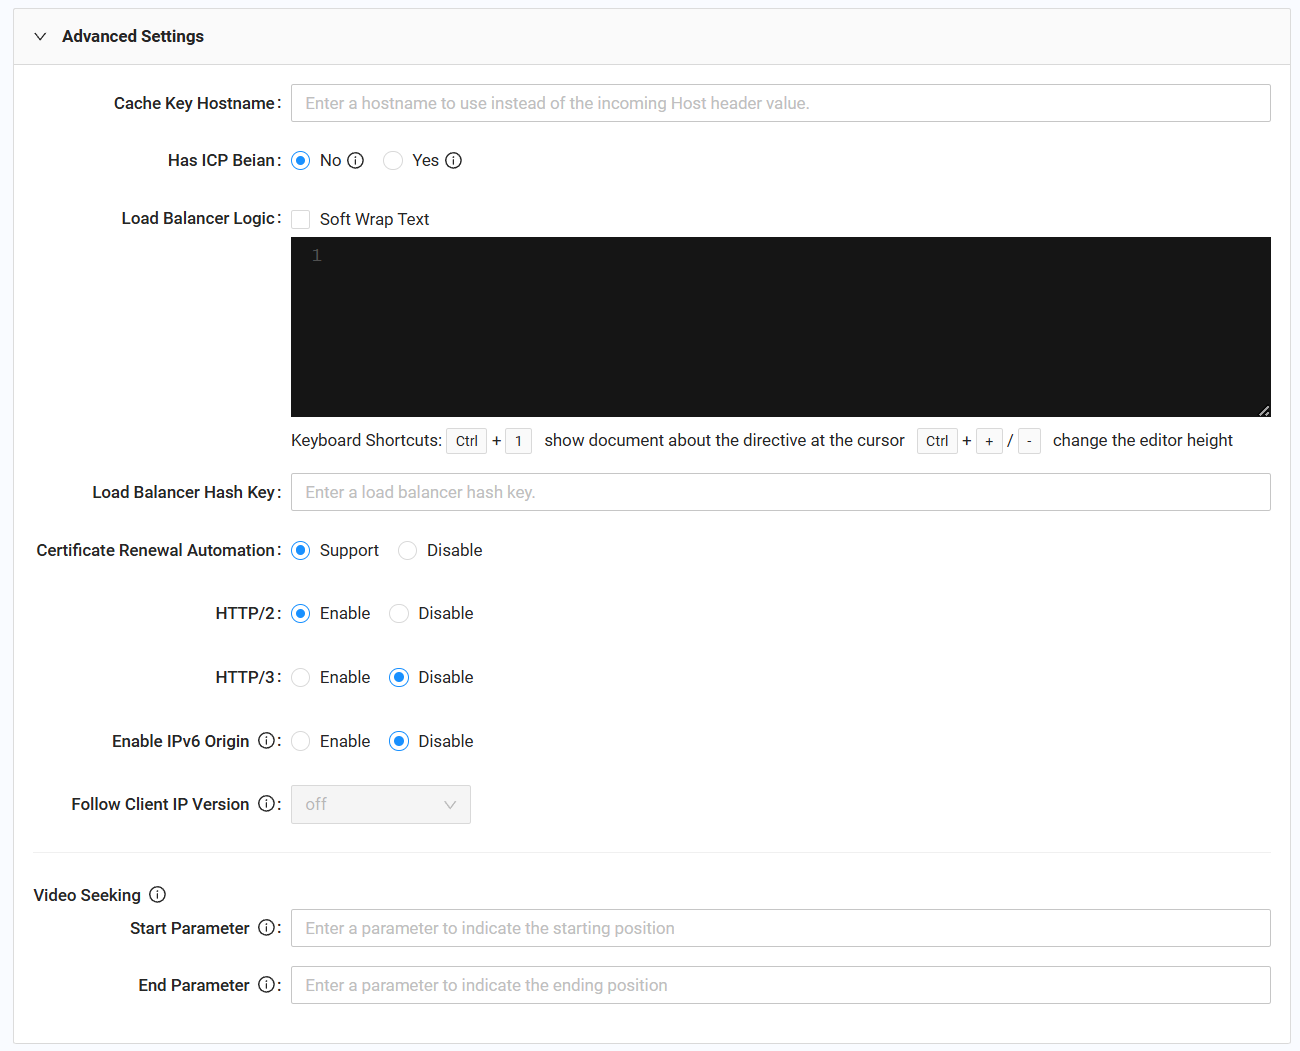
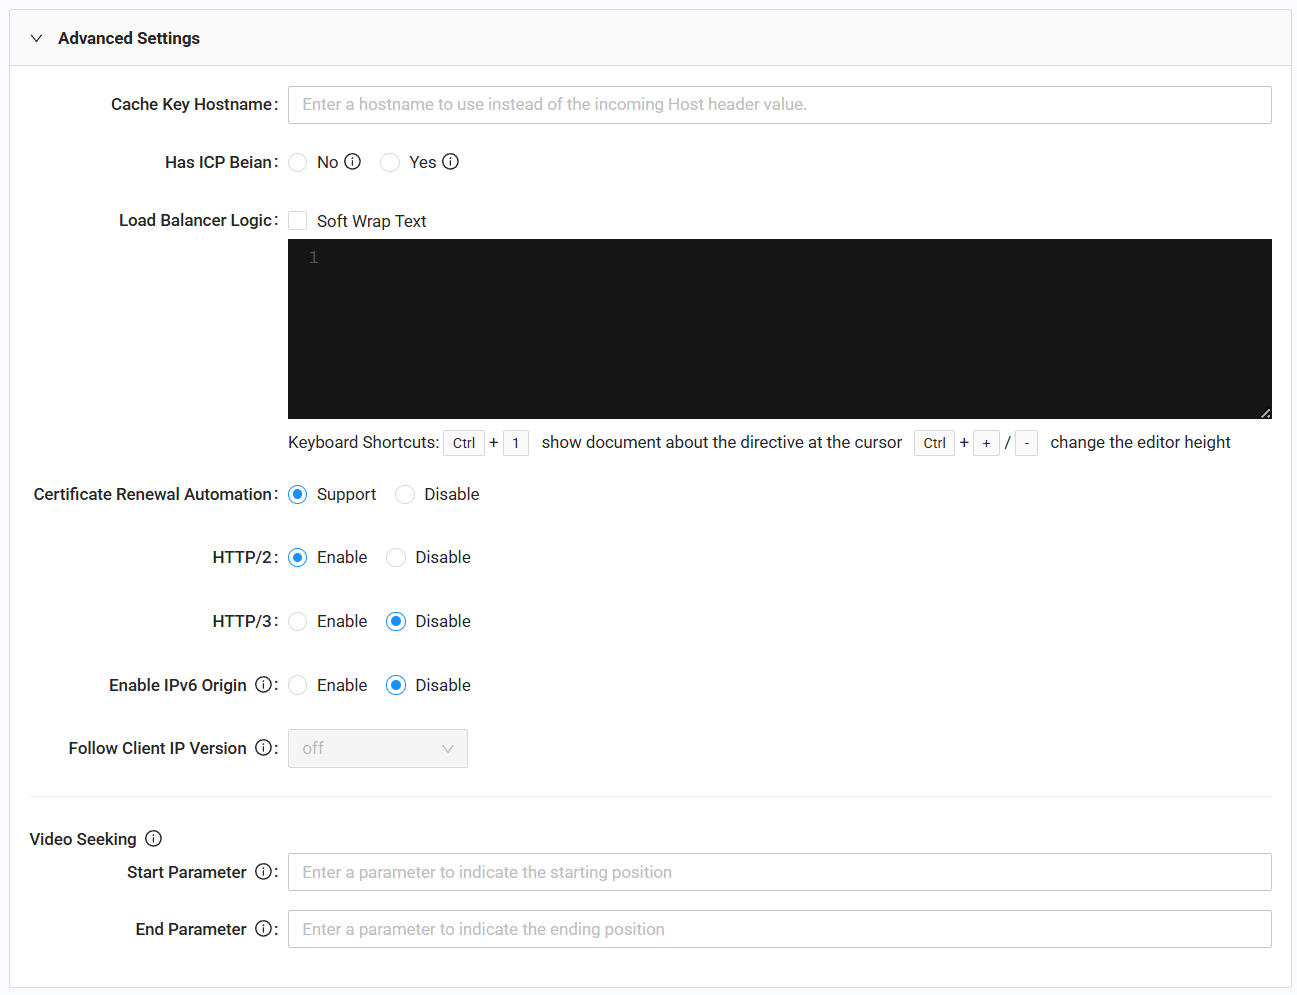
NCP-3779 #comment revised to reflect new UI (NCP-3779) and replacement of variables NCAS-5223

diff --git a/en/docs/edge-logic/built-in-variables.md b/en/docs/edge-logic/built-in-variables.md
@@ -14,6 +14,7 @@ To use the variables properly, it is important to understand the request process
 | <span id="body_bytes_sent"></span><span class="var">$body_bytes_sent</span> |<span class="badge small" title="numerical value">#</span> body bytes sent to client | <span class="badge green">Yes</span> | <span class="badge green">Yes</span> |
 | <span id="bytes_sent"></span><span class="var">$bytes_sent</span> |<span class="badge small" title="numerical value">#</span> total response bytes to client | <span class="badge green">Yes</span> | <span class="badge green">Yes</span> |
 | <span id="cache_misc"></span><span class="var">$cache_misc</span> | a writable variable to add parameters to the cache key | <span class="badge cyan">R/W</span> | <span class="badge yellow">No</span> |
+| <span id="cdn_cache_status"></span><span class="var">$cdn_cache_status</span> | [cache status](https://www.nginx.com/blog/nginx-caching-guide/#Frequently-Asked-Questions-(FAQ)): HIT, MISS, BYPASS, EXPIRED, STALE, UPDATING, REVALIDATED. | <span class="badge green">Yes</span> | <span class="badge green">Yes</span> |
 | <span id="client_country_code"></span><span class="var">$client_country_code</span> | client’s ISO 3166 country code | <span class="badge green">Yes</span> | <span class="badge green">Yes</span> |
 | <span id="client_http_version"></span><span class="var">$client_http_version</span> | client's HTTP version, like "HTTP/1.1" | <span class="badge green">Yes</span> | <span class="badge green">Yes</span> |
 | <span id="client_ip_version"></span><span class="var">$client_ip_version</span> | <span class="badge small" title="numerical value">#</span> client's IP version: 4 for IPv4; 6 for IPv6 | <span class="badge green">Yes</span> | <span class="badge green">Yes</span> |
@@ -25,6 +26,7 @@ To use the variables properly, it is important to understand the request process
 | <span id="content_length"></span><span class="var">$content_length</span> |<span class="badge small" title="numerical value">#</span> request's Content-Length header | <span class="badge green">Yes</span> | <span class="badge green">Yes</span> |
 | <span id="content_type"></span><span class="var">$content_type</span> | request's Content-Type header | <span class="badge green">Yes</span> | <span class="badge green">Yes</span> |
 | <span id="cookie_"></span><span class="var">$cookie_<em>name</em></span> | cookie with the specified name received from the client. The dot character (.) is allowed in this variable name to support cookie names that contain dots. You may need to use curly braces to separate this variable from a trailing literal dot. For example: $cookie_abc.test or ${cookie_abc.test} both refer to the value of the cookie "abc.test", but ${cookie_abc}.test gives you the value of the cookie "abc" followed by the literal ".test". | <span class="badge green">Yes</span> | <span class="badge green">Yes</span> |
+| <span id="cpu_time_ns"></span><span class="var">$cpu_time_ns</span> |<span class="badge small" title="numerical value">#</span> CPU time in nanoseconds（1e-9s) spent on processing the request, before transferring the response body.| <span class="badge green">Yes</span> | <span class="badge green">Yes</span> |
 | <span id="dollar_sign"></span><span class="var">$dollar_sign</span> | a literal dollar sign | <span class="badge green">Yes</span> | <span class="badge green">Yes</span> |
 | <span id="download_time"></span><span class="var">$download_time</span> |<span class="badge small" title="numerical value">#</span> the time in seconds from when CDN Pro receives the client request until CDN Pro sends the response body to the system buffer. The value should be equal to the sum of $request_end_time/$turn_around_time/$transfer_time. Another variable, $download_time_ms, shares the same meaning but is measured in milliseconds. The meaning of $download_time is the same as another variable, $request_time. | <span class="badge green">Yes</span> | <span class="badge green">Yes</span>
 | <span id="error_code"></span><span class="var">$error_code</span> | error about client and origin | <span class="badge green">Yes</span> | <span class="badge green">Yes</span> |
@@ -44,15 +46,15 @@ To use the variables properly, it is important to understand the request process
 | <span id="pid"></span><span class="var">$pid</span> | process ID of the service | <span class="badge green">Yes</span> | <span class="badge green">Yes</span> |
 | <span id="pipe"></span><span class="var">$pipe</span> | "p" if request is pipelined, or "." otherwise. | <span class="badge green">Yes</span> | <span class="badge green">Yes</span> |
 | <span id="property_ver"></span><span class="var">$property_ver</span> |<span class="badge small" title="numerical value">#</span> the property version number | <span class="badge green">Yes</span> | <span class="badge green">Yes</span> |
-| <span id="qtl_cpu_cycle"></span><span class="var">$qtl_cpu_cycle</span> |<span class="badge small" title="numerical value">#</span> CPU time in nanoseconds（1e-9s) spent on processing the request, before transferring the response body.| <span class="badge green">Yes</span> | <span class="badge green">Yes</span> |
-| <span id="qtl_req_id"></span><span class="var">$qtl_req_id</span> | a unique ID for the request | <span class="badge green">Yes</span> | <span class="badge green">Yes</span> |
-| <span id="qtl_upstream_cache_status"></span><span class="var">$qtl_upstream_cache_status</span> | [cache status](https://www.nginx.com/blog/nginx-caching-guide/#Frequently-Asked-Questions-(FAQ)): HIT, MISS, BYPASS, EXPIRED, STALE, UPDATING, REVALIDATED. | <span class="badge green">Yes</span> | <span class="badge green">Yes</span> |
+| <span id="qtl_cpu_cycle"></span><span class="var">$qtl_cpu_cycle</span> |<span class="badge small" title="numerical value">#</span> Deprecated. Please use $cpu_time_ns instead. It has the same functionality.| <span class="badge green">Yes</span> | <span class="badge green">Yes</span> |
+| <span id="qtl_req_id"></span><span class="var">$qtl_req_id</span> | Deprecated. Please use $unique_req_id. It has the same functionality. | <span class="badge green">Yes</span> | <span class="badge green">Yes</span> |
+| <span id="qtl_upstream_cache_status"></span><span class="var">$qtl_upstream_cache_status</span> | Deprecated. Please use $cdn_cache_status instead. It has the same functionality. | <span class="badge green">Yes</span> | <span class="badge green">Yes</span> |
 | <span id="random_N"></span><span class="var">$random_N</span> |<span class="badge small" title="numerical value">#</span> A random integer uniformly distributed in [0, N-1]. N can be an integer in [2, 1e9]. | <span class="badge green">Yes</span> | <span class="badge green">Yes</span> |
 | <span id="realtime_log_ds_factor"></span><span class="var">$realtime_log_ds_factor</span> |<span class="badge small" title="numerical value">#</span> RT log downsample factor. A value N means one log entry for every N requests. Users can use the directive [realtime_log_downsample](/docs/edge-logic/supported-directives#realtime_log_downsample) to override the default sample rate. | <span class="badge green">Yes</span> | <span class="badge yellow">No</span> |
 | <span id="realtime_log_ds_ratio"></span><span class="var">$realtime_log_ds_ratio</span> |<span class="badge small" title="numerical value">#</span> RT log downsample ratio, the reciprocal of $realtime_log_ds_factor. The value should be a decimal number between 0 and 1. | <span class="badge green">Yes</span> | <span class="badge yellow">No</span> |
 | <span id="remote_user"></span><span class="var">$remote_user</span> | user name extracted from the Authorization header if [Basic authentication](https://datatracker.ietf.org/doc/html/rfc7617) is used. | <span class="badge green">Yes</span> | <span class="badge green">Yes</span> |
 | <span id="request"></span><span class="var">$request</span> | full HTTP request line | <span class="badge green">Yes</span> | <span class="badge green">Yes</span> |
-| <span id="request_cpu_time"></span><span class="var">$request_cpu_time</span> |<span class="badge small" title="numerical value">#</span> CPU time in nanoseconds（1e-9s) spent on processing the request, before transferring the response body. Another variable qtl_cpu_cycle shares the same meaning. | <span class="badge green">Yes</span> | <span class="badge green">Yes</span> |
+| <span id="request_cpu_time"></span><span class="var">$request_cpu_time</span> |<span class="badge small" title="numerical value">#</span> CPU time in nanoseconds（1e-9s) spent on processing the request, before transferring the response body. Another variable $cpu_time_ns shares the same meaning. | <span class="badge green">Yes</span> | <span class="badge green">Yes</span> |
 | <span id="request_start_time"></span><span class="var">$request_start_time</span> |<span class="badge small" title="numerical value">#</span> the Unix time (in seconds with milliseconds resolution) when the first byte of the request is received from the client. | <span class="badge green">Yes</span> | <span class="badge green">Yes</span> |
 | <span id="request_end_time"></span><span class="var">$request_end_time</span> |<span class="badge small" title="numerical value">#</span> the time in seconds it takes to receive the request header from the client and be ready to process or forward it. Another variable request_end_time_ms shares the same meaning but in milliseconds.  | <span class="badge green">Yes</span> | <span class="badge green">Yes</span> |
 | <span id="request_length"></span><span class="var">$request_length</span> |<span class="badge small" title="numerical value">#</span> length of request line, header and body | <span class="badge green">Yes</span> | <span class="badge green">Yes</span> |
@@ -84,6 +86,7 @@ To use the variables properly, it is important to understand the request process
 | <span id="time_http"></span><span class="var">$time_http</span> | current time in RFC 7231 format that can be used for HTTP Date header | <span class="badge green">Yes</span> | <span class="badge green">Yes</span> |
 | <span id="transfer_time"></span><span class="var">$transfer_time</span> |<span class="badge small" title="numerical value">#</span> the time needed for CDN Pro to send the full requested object  ( up to last byte ) to system buffer, in seconds. Another variable transfer_time_ms shares the same meaning but in milliseconds. | <span class="badge green">Yes</span> | <span class="badge green">Yes</span> |
 | <span id="turn_around_time"></span><span class="var">$turn_around_time</span> |<span class="badge small" title="numerical value">#</span> the time needed for CDN Pro to receive first byte of response of origin, in seconds. Another variable turn_around_time_ms shares the same meaning but in milliseconds.   | <span class="badge green">Yes</span> | <span class="badge green">Yes</span> |
+| <span id="unique_req_id"></span><span class="var">$unique_req_id</span> | a unique ID for the request | <span class="badge green">Yes</span> | <span class="badge green">Yes</span> |
 | <span id="upstream_bytes_received"></span><span class="var">$upstream_bytes_received</span> |<span class="badge small" title="numerical value">#</span> number of bytes received from a parent or origin server | <span class="badge green">Yes</span> | <span class="badge yellow">No</span> |
 | <span id="upstream_bytes_sent"></span><span class="var">$upstream_bytes_sent</span> |<span class="badge small" title="numerical value">#</span> number of bytes sent to a parent or origin server | <span class="badge green">Yes</span> | <span class="badge yellow">No</span> |
 | <span id="upstream_connect_time"></span><span class="var">$upstream_connect_time</span> |<span class="badge small" title="numerical value">#</span> time spent in seconds with millisecond resolution establishing a connection with a parent or origin server | <span class="badge green">Yes</span> | <span class="badge yellow">No</span> |

diff --git a/en/docs/portal/edge-configurations/creating-property.md b/en/docs/portal/edge-configurations/creating-property.md
@@ -27,7 +27,7 @@ After you create the new property, save and [validate](</docs/portal/tasks/valid
 | Edge Logic                | Write NGINX configuration code to specify how you want CDN Pro to deliver content to your visitors. You can click the [**Wizard** button](#edge-logic-wizard) to bootstrap this configuration using the Edge Logic Wizard dialog box. For more information, refer to {{title}}' [Edge Logic documentation](</docs/edge-logic/intro.md>), which includes a description of [supported directives](</docs/edge-logic/supported-directives.md>) and [variables](</docs/edge-logic/built-in-variable>).</li>
 | TLS Settings              | Select the [TLS client certificate settings](#tls-settings) for your property.|
 | Real Time Logging | If this advanced feature was enabled for you, complete the [real-time logging parameters](#real-time-log). If you require this feature, contact the [{{title}} support team](mailto:support@{{siteDomain}}).|
-| Advanced Settings         | Use [advanced settings](#advanced-settings) to specify cache sharing, China ICP Beian, a load balancer hash key, whether to manage certificate renewal yourself, HTTP/2, HTTP/3, IPv6 origin support, and whether to match the client IP version when accessing origin content.|
+| Advanced Settings         | Use [advanced settings](#advanced-settings) to specify cache sharing, China ICP Beian, whether to manage certificate renewal yourself, HTTP/2, HTTP/3, IPv6 origin support, and whether to match the client IP version when accessing origin content.|
 
 4. To include a baseline configuration with the Edge Logic for the property, click the gear icon at the bottom left of the **Edge Logic** field. When the popup appears, enter the baseline configuration. When you finish, click the **Save** button to save the baseline configuration to the database.
 

diff --git a/zh/docs/portal/edge-configurations/creating-property.md b/zh/docs/portal/edge-configurations/creating-property.md
@@ -27,7 +27,7 @@ After you create the new property, save and [validate](</docs/portal/tasks/valid
 | Edge Logic                | Write NGINX configuration code to specify how you want CDN Pro to deliver content to your visitors. You can click the [**Wizard** button](#edge-logic-wizard) to bootstrap this configuration using the Edge Logic Wizard dialog box. For more information, refer to {{title}}' [Edge Logic documentation](</docs/edge-logic/intro.md>), which includes a description of [supported directives](</docs/edge-logic/supported-directives.md>) and [variables](</docs/edge-logic/built-in-variable>).</li>
 | TLS Settings              | Select the [TLS client certificate settings](#tls-settings) for your property.|
 | Real Time Logging | If this advanced feature was enabled for you, complete the [real-time logging parameters](#real-time-log). If you require this feature, contact the [{{title}} support team](mailto:support@{{siteDomain}}).|
-| Advanced Settings         | Use [advanced settings](#advanced-settings) to specify cache sharing, China ICP Beian, a load balancer hash key, whether to manage certificate renewal yourself, HTTP/2, HTTP/3, IPv6 origin support, and whether to match the client IP version when accessing origin content.|
+| Advanced Settings         | Use [advanced settings](#advanced-settings) to specify cache sharing, China ICP Beian, whether to manage certificate renewal yourself, HTTP/2, HTTP/3, IPv6 origin support, and whether to match the client IP version when accessing origin content.|
 
 4. To include a baseline configuration with the Edge Logic for the property, click the gear icon at the bottom left of the **Edge Logic** field. When the popup appears, enter the baseline configuration. When you finish, click the **Save** button to save the baseline configuration to the database.
 
